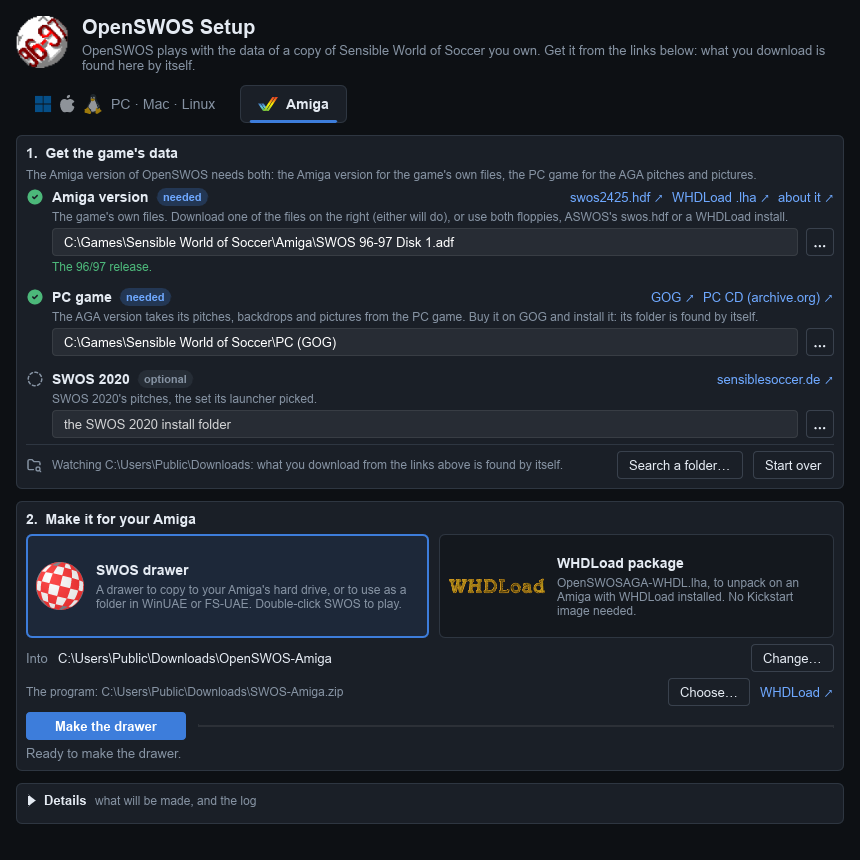
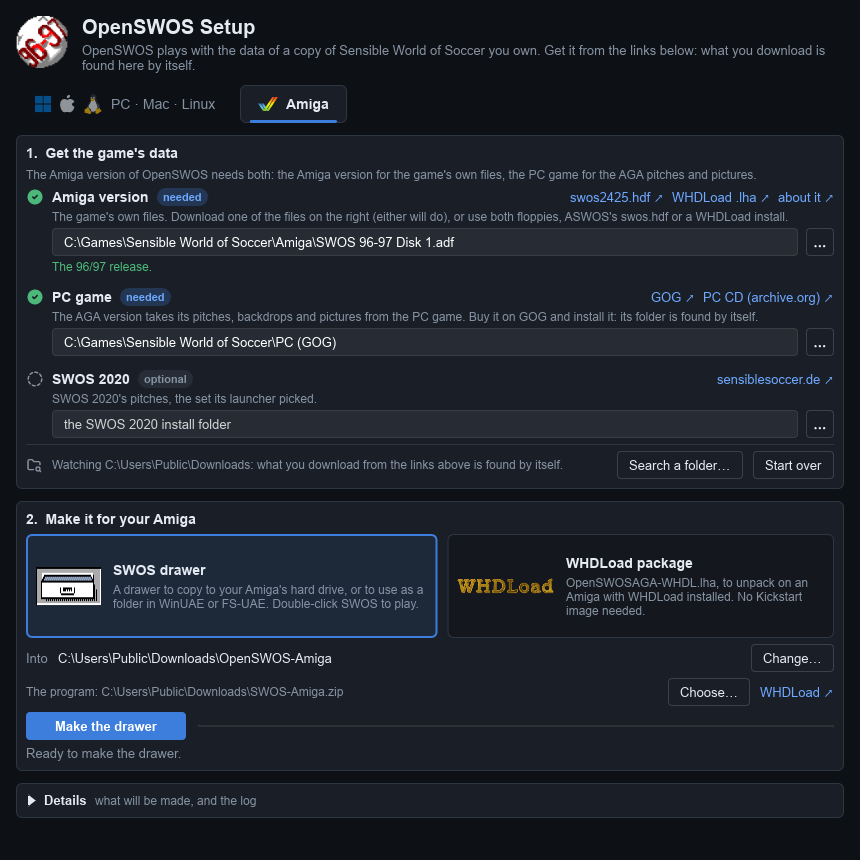
setup: a Workbench drawer for the SWOS drawer tile -- open while chosen, shut when not
The owner's drawings (amiga-drawer.svg, amiga-drawer-open.svg, 65x38 pixel art, shown
at their own size so they stay crisp) replace the Boing ball; the install guide's two
Amiga-tab screenshots retaken with them.

Changed region(s): [[0.0302, 0.6047, 0.9372, 0.7558]]

diff --git a/tools/swosdata/app/ui/images/README.md b/tools/swosdata/app/ui/images/README.md
@@ -3,5 +3,6 @@
 - `pc-mac-linux.svg` -- the PC, Mac and Linux tab: the Windows and Linux (Tux) logos from the
   owner's "IT Icons" set, the Apple logo from [Tabler Icons](https://tabler.io/icons) (MIT,
   (c) Paweł Kuna), drawn light for the dark window.
-- `amiga-check.svg`, `boing-ball.svg`, `whdload.png` -- the Amiga tab and its two outputs,
+- `amiga-check.svg`, `amiga-drawer.svg` / `amiga-drawer-open.svg` (a Workbench drawer, shut
+  and, while its tile is chosen, open), `whdload.png` -- the Amiga tab and its two outputs,
   from the owner.
